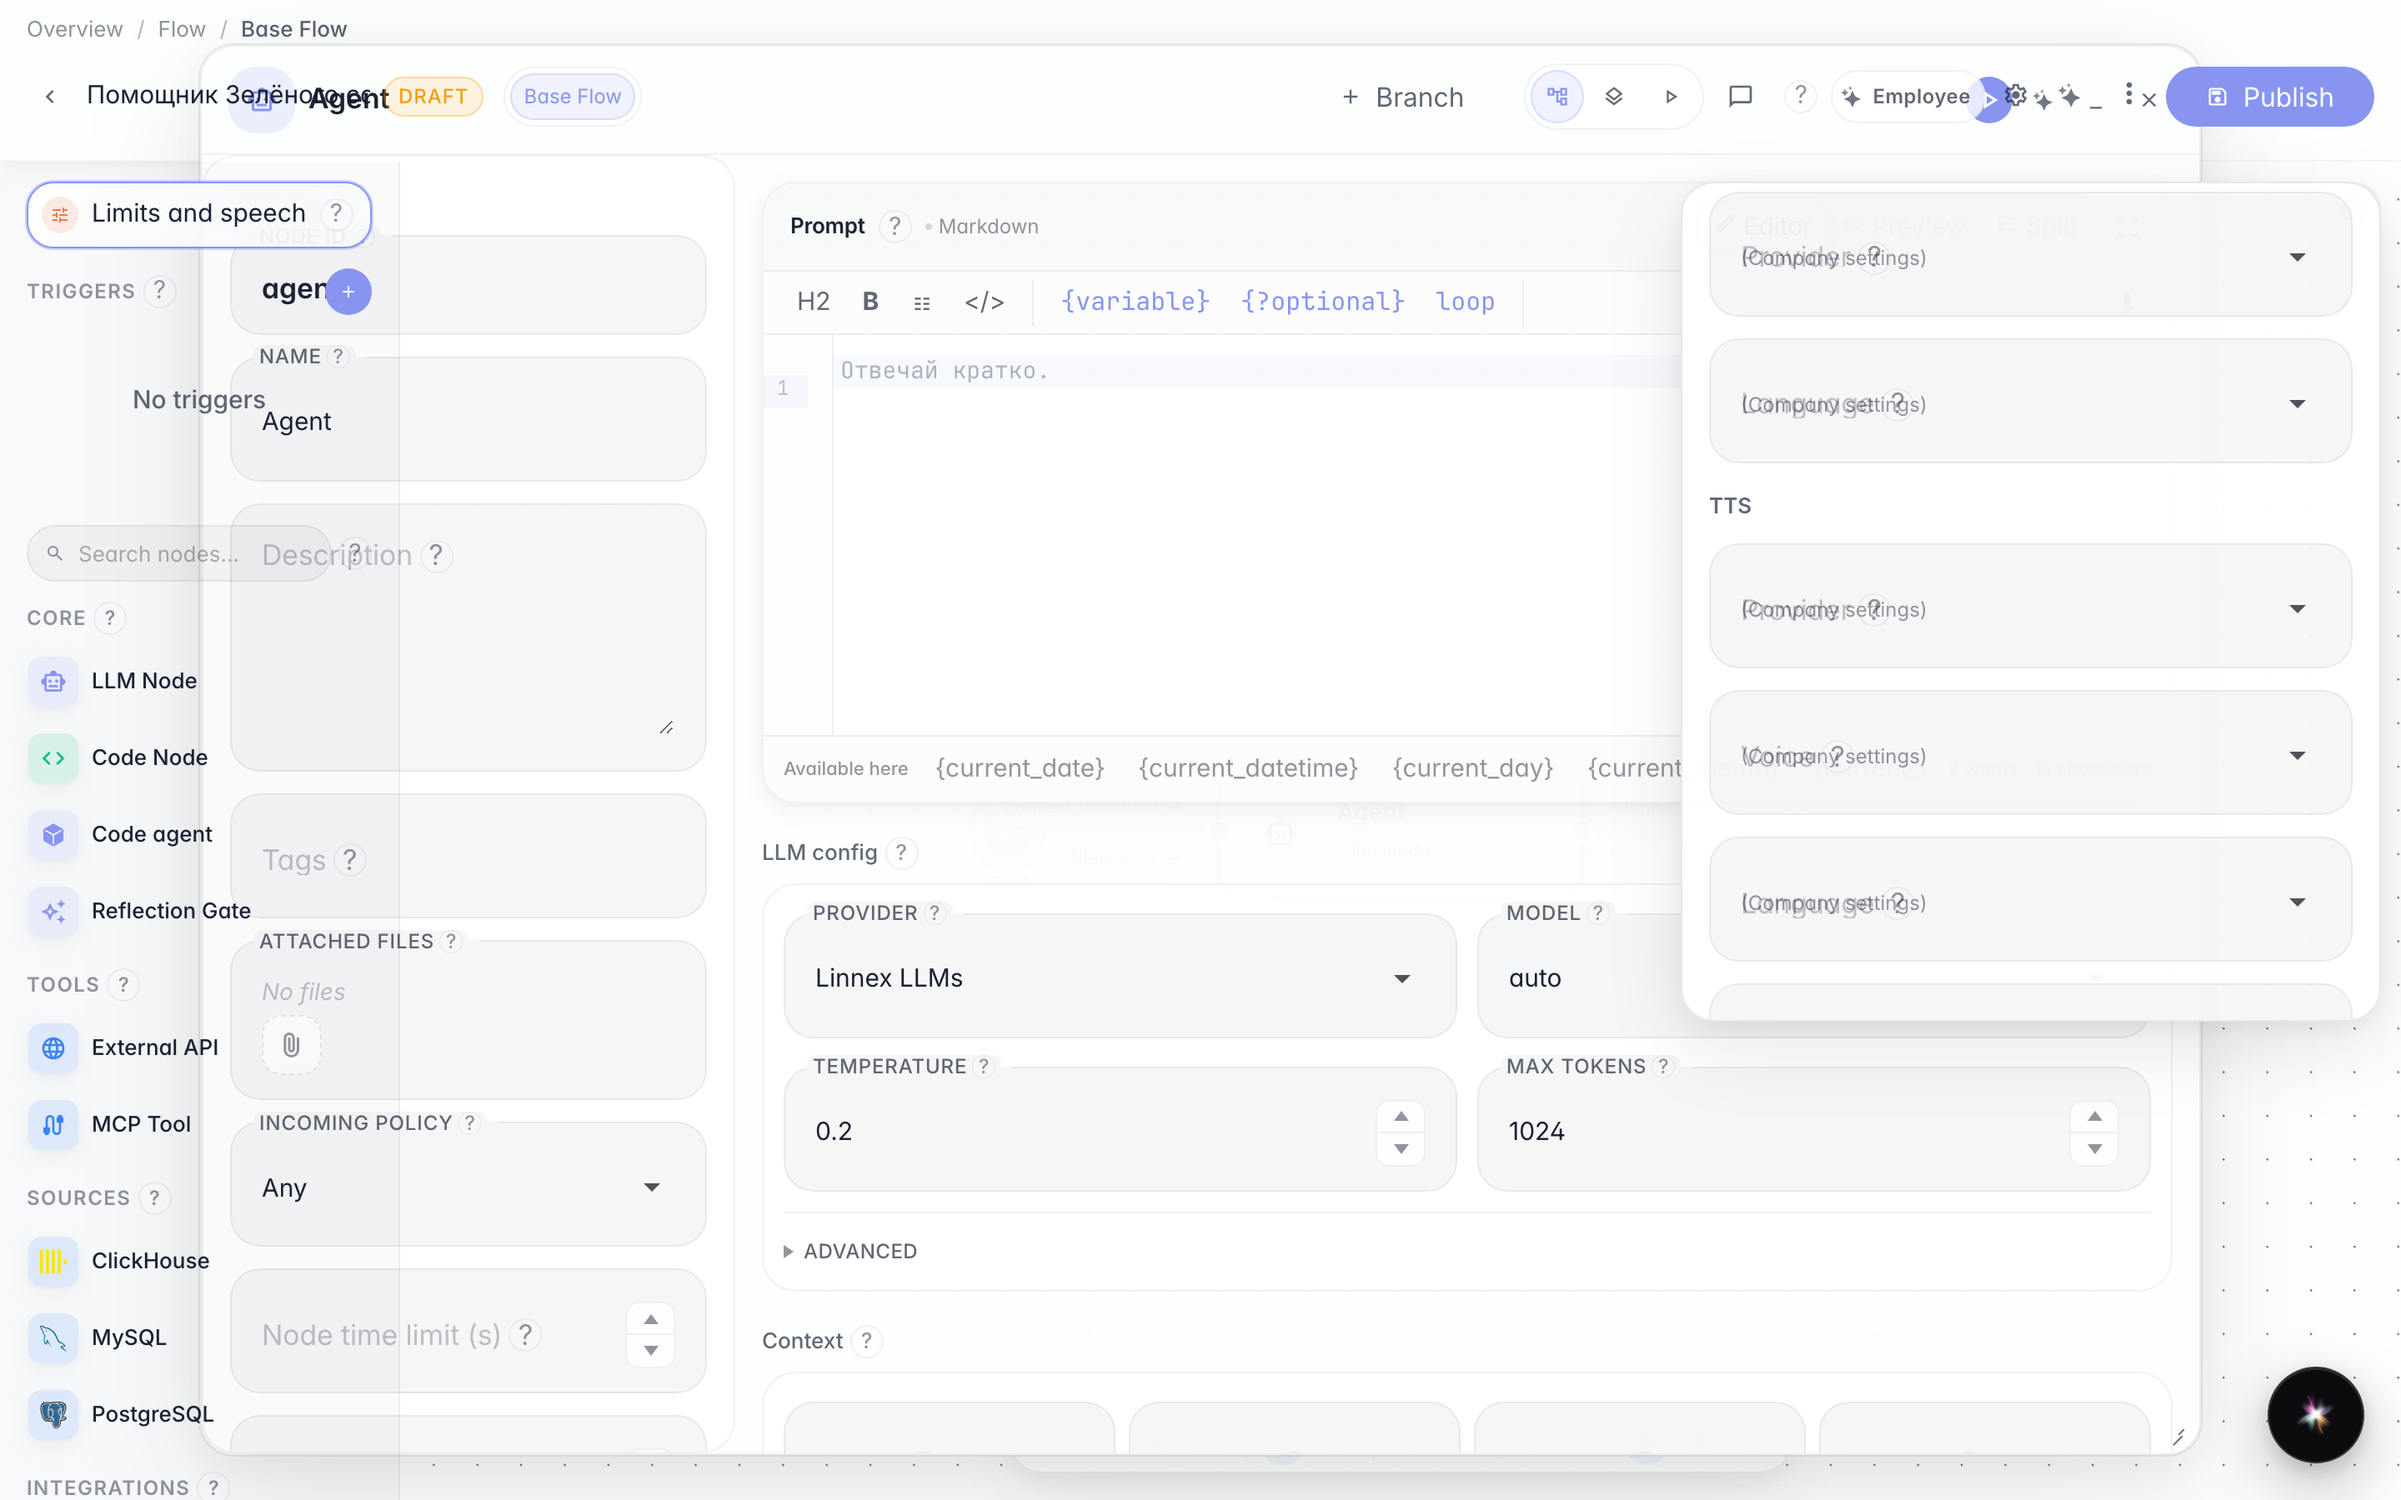
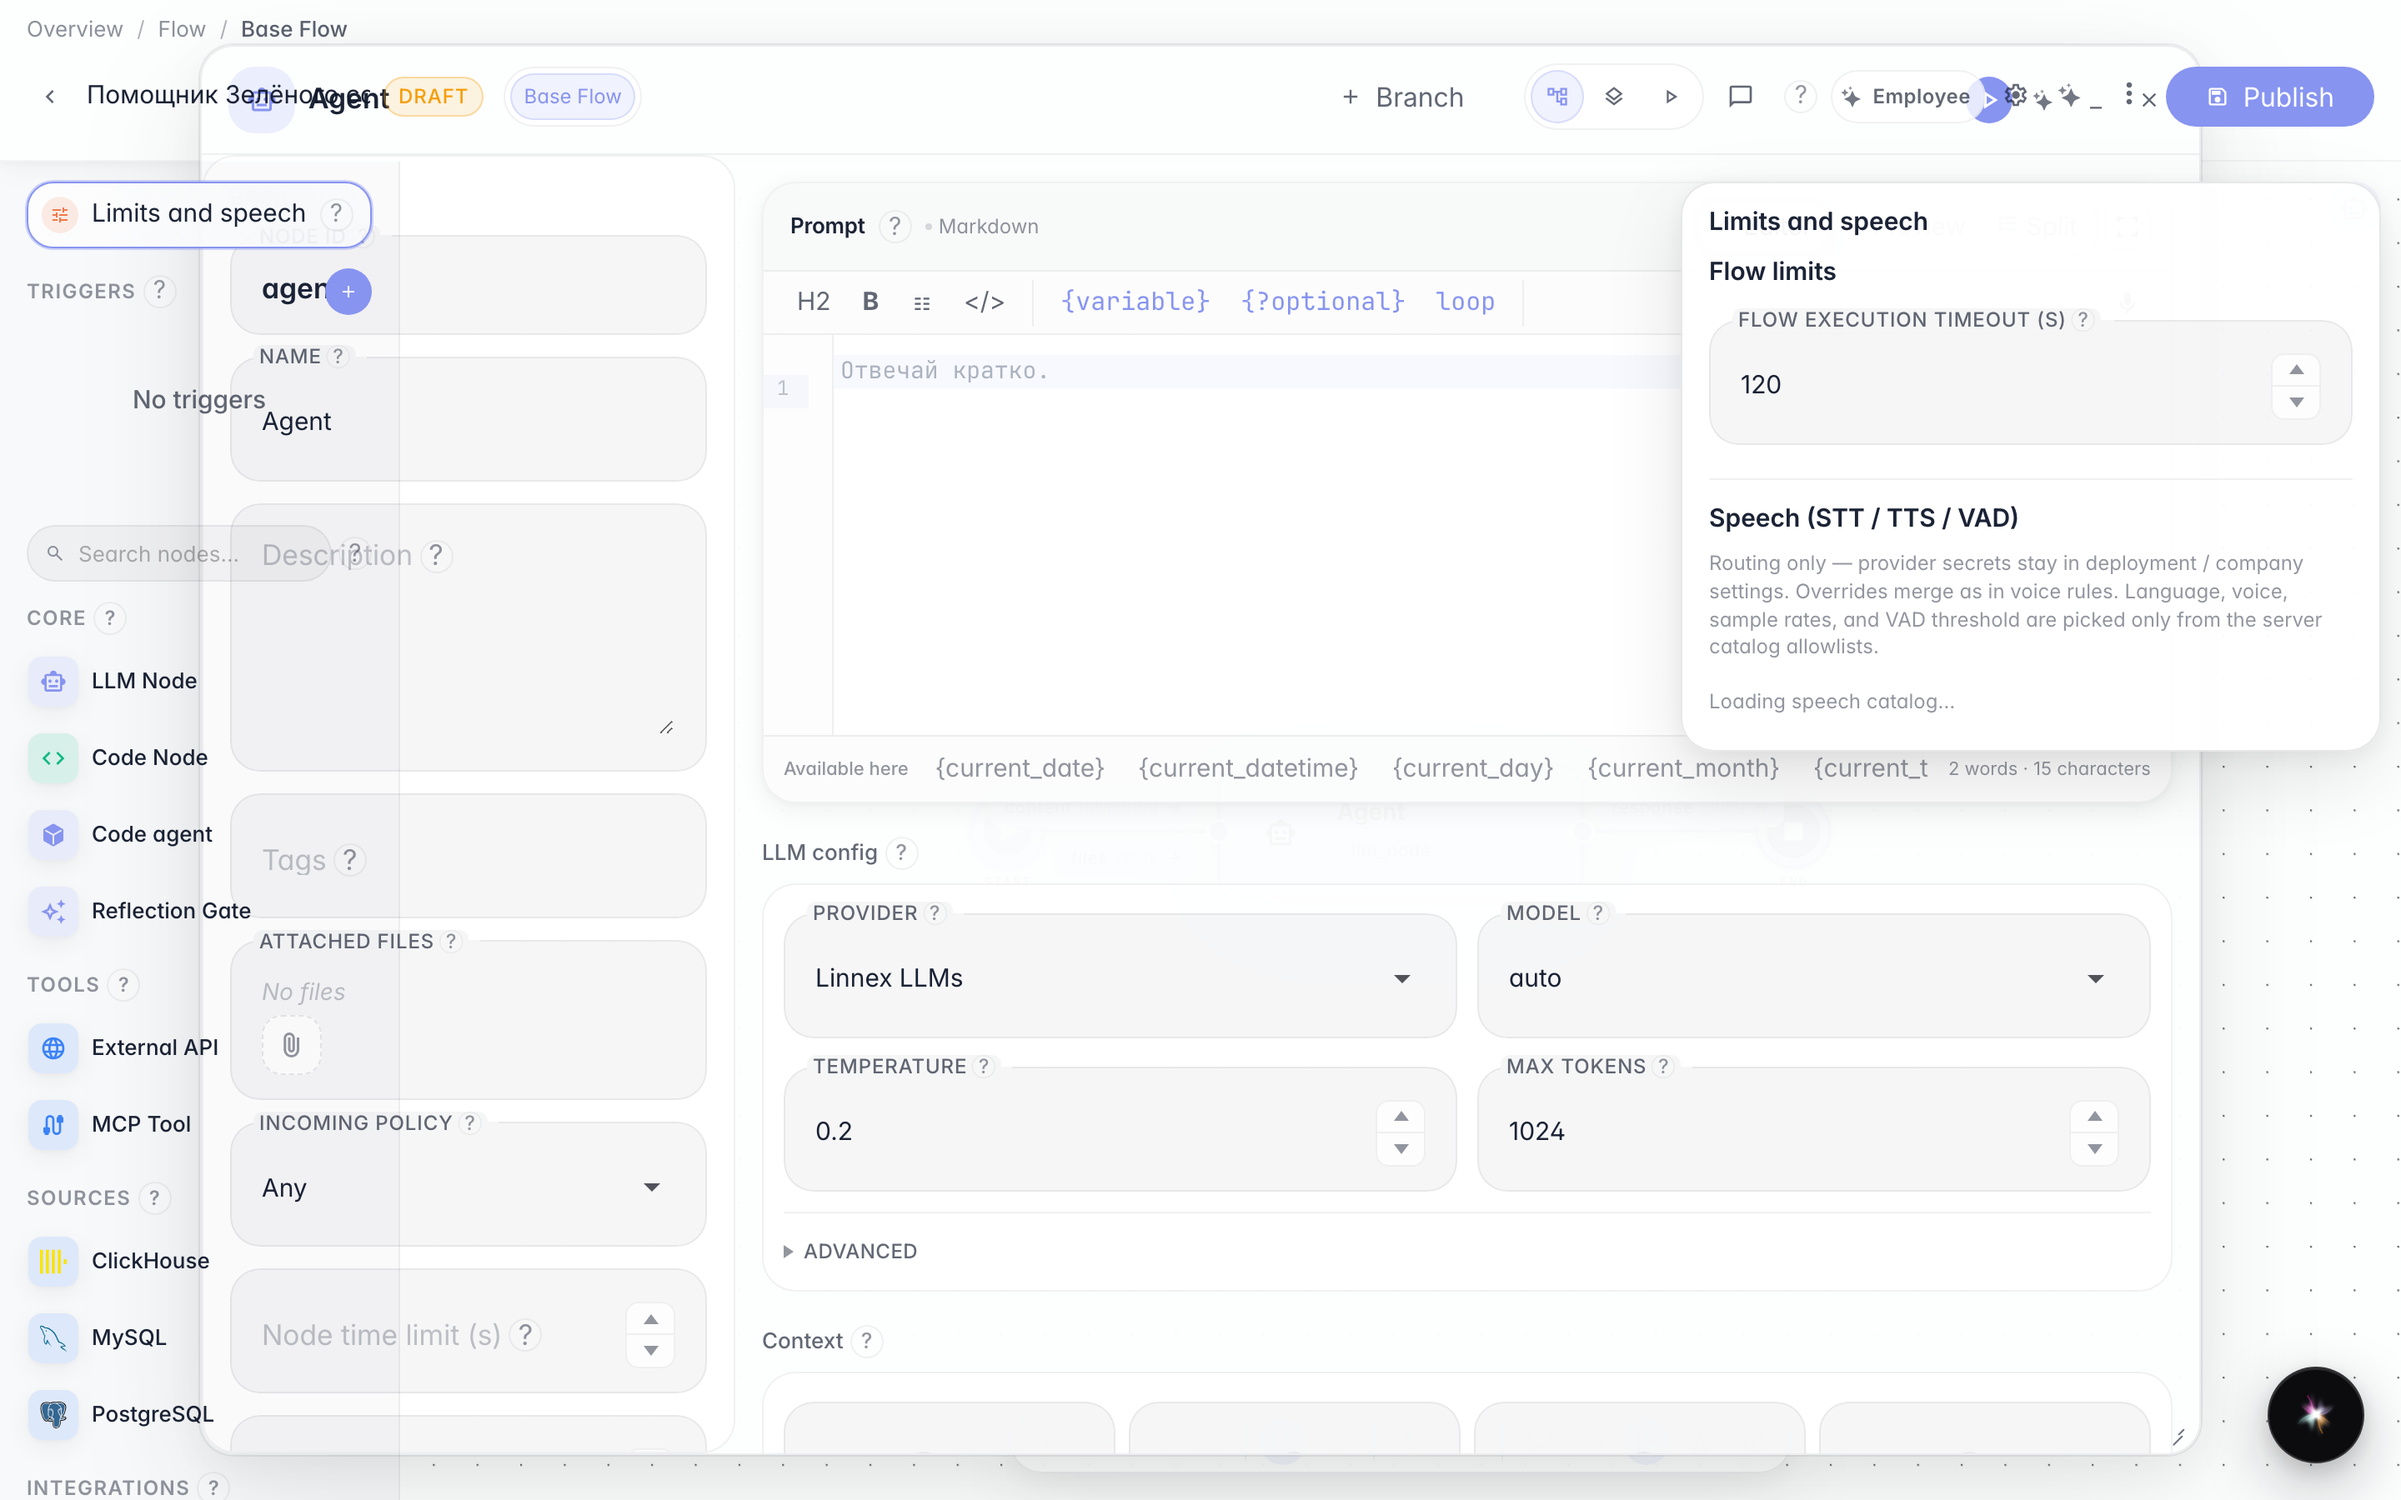
wip(misc): local changes

diff --git a/tests/fixtures/workers.py b/tests/fixtures/workers.py
@@ -42,16 +42,21 @@ def _pid_is_alive(pid: int) -> bool:
 
 def _recorded_pid_is_pytest(pid: int) -> bool:
     """Живой pid из маркера — реально pytest? Отсекает переиспользование pid."""
+    return _pid_cmdline(pid) is None or "pytest" in _pid_cmdline(pid)
+
+
+def _pid_cmdline(pid: int) -> str | None:
+    """Cmdline процесса; None — psutil недоступен."""
     try:
         import psutil
     except ImportError:
-        return True
+        return None
     try:
-        return "pytest" in " ".join(psutil.Process(pid).cmdline())
+        return " ".join(psutil.Process(pid).cmdline())
     except (psutil.NoSuchProcess, psutil.ZombieProcess):
-        return False
+        return ""
     except psutil.AccessDenied:
-        return True
+        return None
 
 
 def claim_pytest_controller_session() -> None:
@@ -67,10 +72,11 @@ def claim_pytest_controller_session() -> None:
             and _pid_is_alive(existing_pid)
             and _recorded_pid_is_pytest(existing_pid)
         ):
+            cmdline = _pid_cmdline(existing_pid) or ""
             raise RuntimeError(
-                "pytest controller уже запущен "
-                f"(pid={existing_pid}). Дождитесь завершения make test "
-                "или завершите процесс вручную."
+                f"pytest controller уже запущен (pid={existing_pid}"
+                f"{', ' + cmdline if cmdline else ''}). "
+                "Дождитесь завершения make test или завершите процесс вручную."
             )
         _PLATFORM_TEST_CONTROLLER_PID.unlink(missing_ok=True)
     _PLATFORM_TEST_CONTROLLER_PID.write_text(str(os.getpid()), encoding="utf-8")

diff --git a/tests/conftest.py b/tests/conftest.py
@@ -273,7 +273,9 @@ def pytest_configure(config):
     """Guard одного pytest-контроллера и подготовка каталога junitxml."""
     import pathlib
 
-    if not hasattr(config, "workerinput"):
+    # --collect-only (IDE discovery) не запускает тесты и не трогает БД —
+    # контроллер не захватываем, иначе фоновый discovery конфликтует с make test.
+    if not hasattr(config, "workerinput") and not config.option.collectonly:
         from tests.fixtures.workers import prepare_pytest_controller_session
 
         try:

diff --git a/scripts/gates/backend/wider_repo_strictness.py b/scripts/gates/backend/wider_repo_strictness.py
@@ -30,6 +30,10 @@ SKIP_PARTS = {
     ".ruff_cache",
     ".venv",
     "node_modules",
+    # ui-dist — генерируемый esbuild-вывод: чанки переписываются прямо во время
+    # сборки (make test гоняет lint и esbuild параллельно), плюс аудиту
+    # исходного текста там нечего проверять.
+    "ui-dist",
 }
 SKIP_PATH_PREFIXES: tuple[str, ...] = ()
 SKIP_TEXT_SUFFIXES = (".map", ".min.js")

diff --git a/tests/ui/e2e/flows_e2e_helpers.py b/tests/ui/e2e/flows_e2e_helpers.py
@@ -2465,6 +2465,8 @@ async def flows_open_variables_modal(
         )
     modal = page.locator("flows-variables-modal").first
     await expect(modal).to_be_visible(timeout=15_000)
+    spinner = modal.locator("platform-company-variables-panel platform-spinner")
+    await expect(spinner).to_be_hidden(timeout=20_000)
     return modal
 
 

diff --git a/docs/scenarios/flows/operations/voice-and-limits/README.md b/docs/scenarios/flows/operations/voice-and-limits/README.md
@@ -17,3 +17,17 @@
 Прокрутите панель до раздела речи. Здесь можно выбрать провайдера синтеза, голос и язык — без реального голосового звонка, только настройка профиля.
 
 ![Проверьте блок настроек речи](voice-and-limits--02-speech-settings-visible.png)
+
+## Шаг 3. Создайте ветку для отдельных настроек
+
+Добавьте ветку «Летние скидки» и переключитесь на неё. Для разных сценариев можно задавать свои лимиты и профиль речи поверх настроек всего агента.
+
+![Создайте ветку для отдельных настроек](voice-and-limits--03-branch-tab-created.png)
+
+## Шаг 4. Переопределите речь в ветке
+
+**Демонстрация результата.** В ветке «Летние скидки» виден отдельный блок речи ветки — значит, голос и лимиты можно настраивать точечно.
+
+**Итог.** Теперь вы знаете, где задать таймаут агента и как переопределить профиль речи на уровне ветки.
+
+![Переопределите речь в ветке](voice-and-limits--04-branch-speech-override.png)

diff --git a/docs/scenarios/flows/operations/voice-and-limits/README.en.md b/docs/scenarios/flows/operations/voice-and-limits/README.en.md
@@ -17,3 +17,17 @@ In the editor left column, open Limits and speech. Here you set the maximum runt
 Scroll the panel to the speech section. Here you choose TTS provider, voice, and language — profile setup only, without a real voice call.
 
 ![Review the speech settings block](voice-and-limits--02-speech-settings-visible.png)
+
+## Step 3. Create a branch for separate settings
+
+Add the Summer sale branch and switch to it. Different scenarios can have their own limits and speech profile on top of agent-wide settings.
+
+![Create a branch for separate settings](voice-and-limits--03-branch-tab-created.png)
+
+## Step 4. Override speech in the branch
+
+**Result demonstration.** In the Summer sale branch you see a separate branch speech block — voice and limits can be tuned per branch.
+
+**Summary.** You now know where to set the agent timeout and how to override the speech profile at branch level.
+
+![Override speech in the branch](voice-and-limits--04-branch-speech-override.png)
